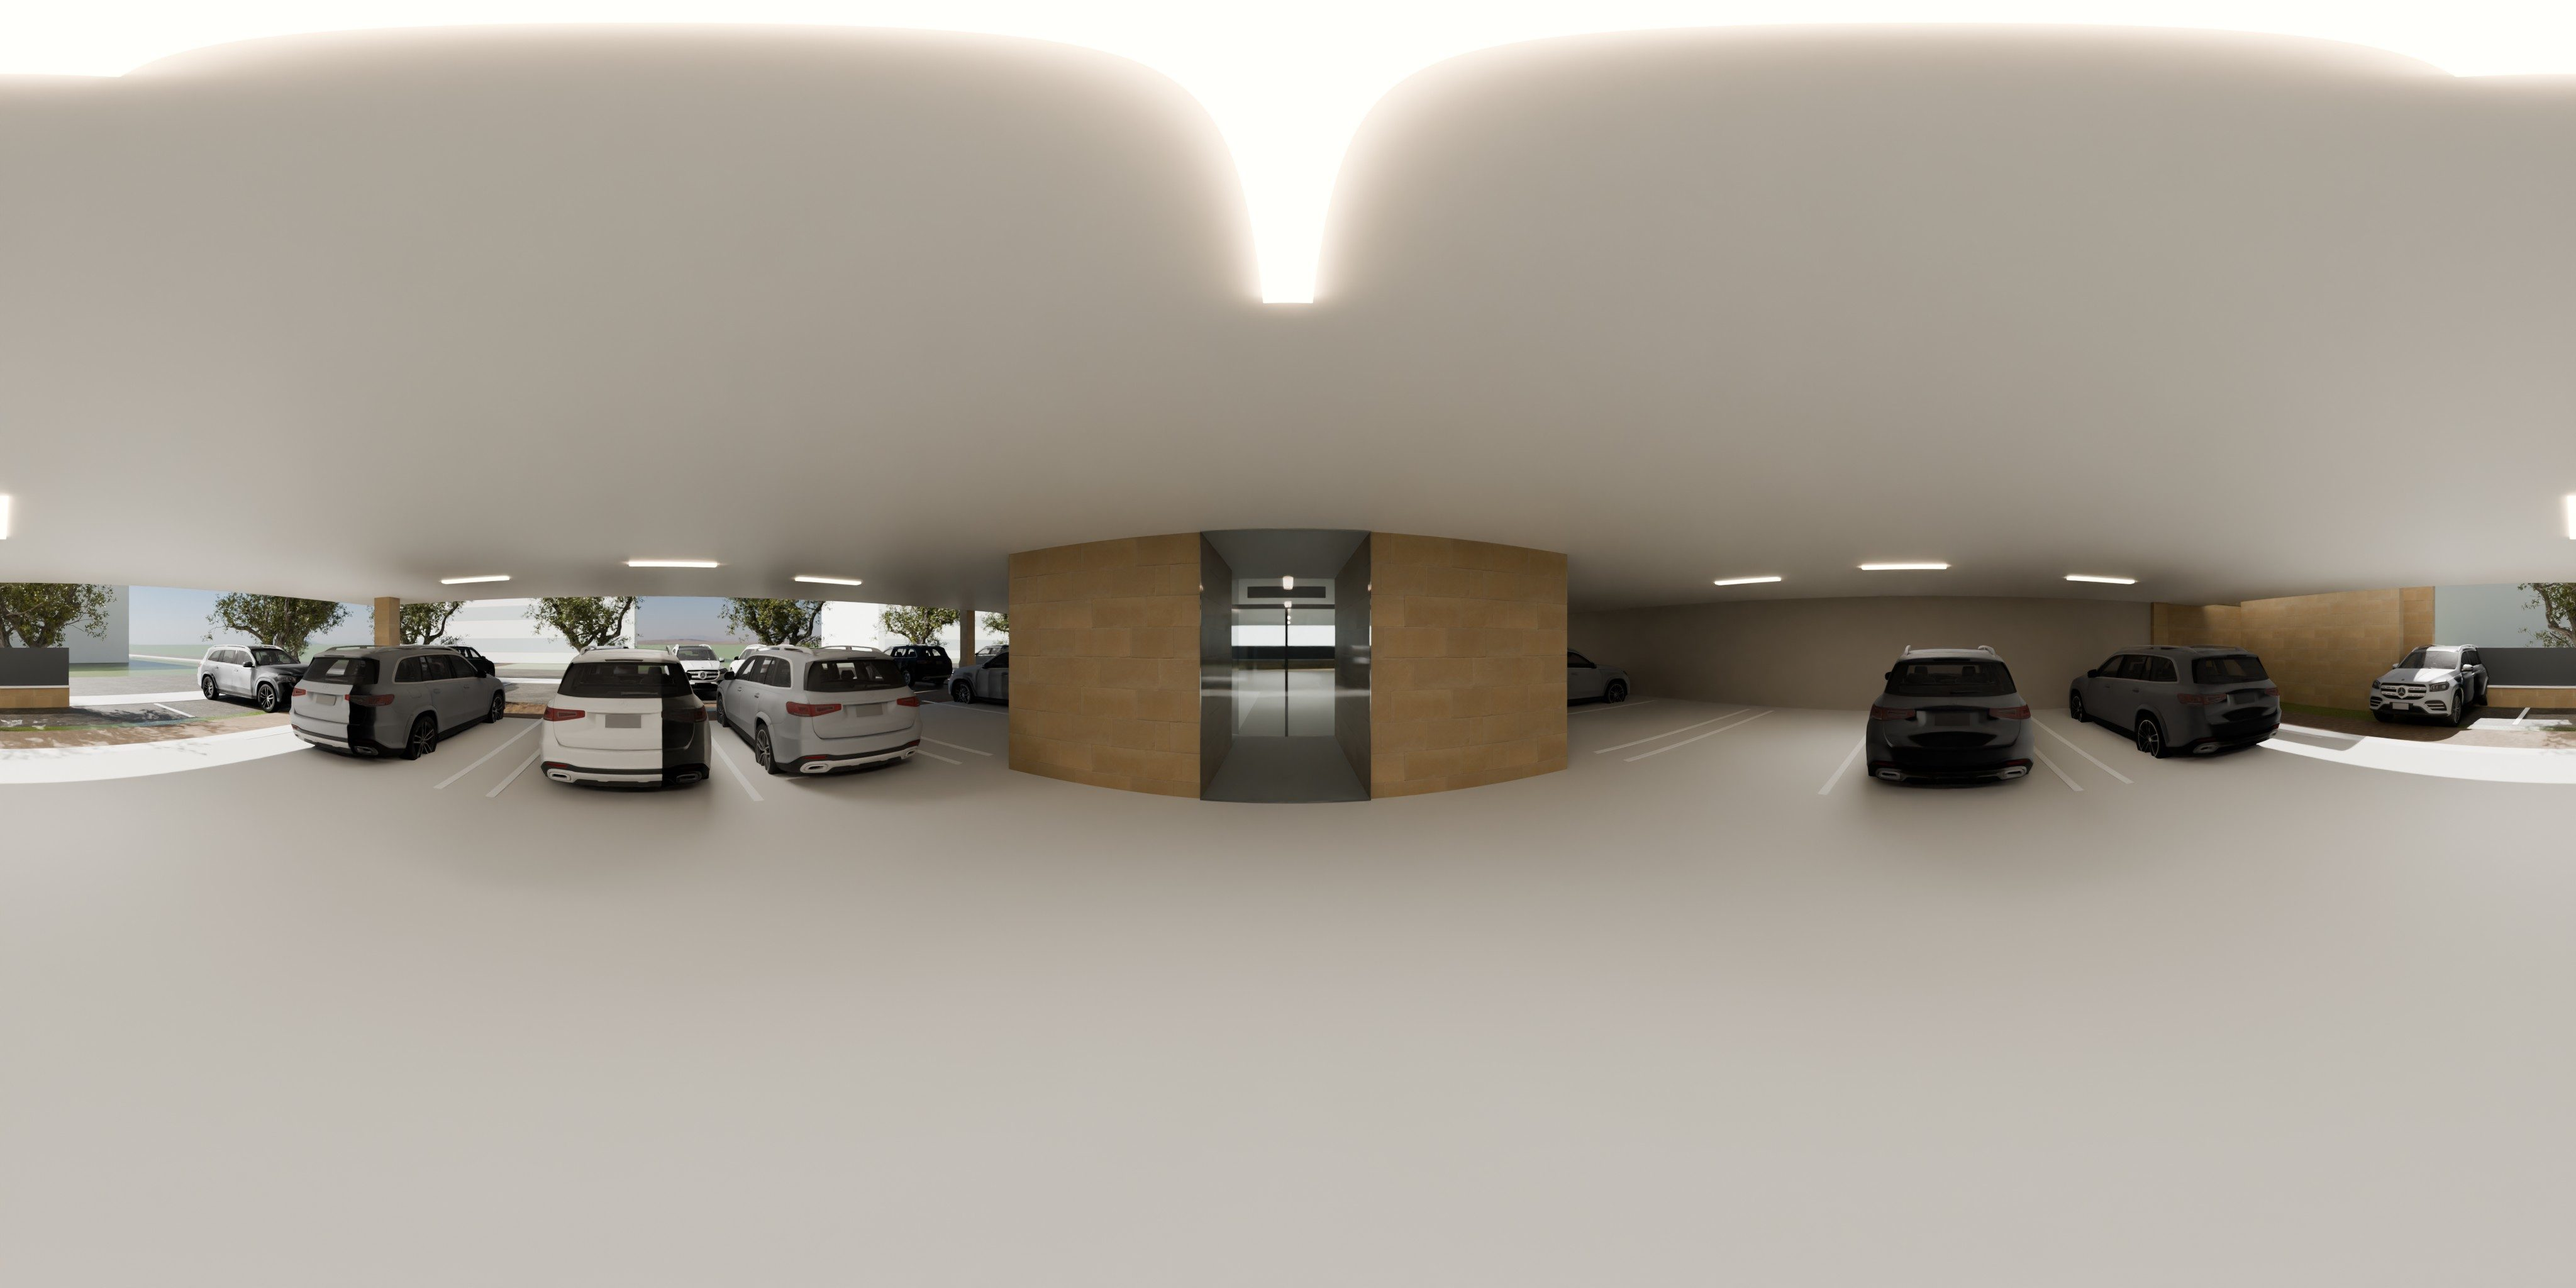
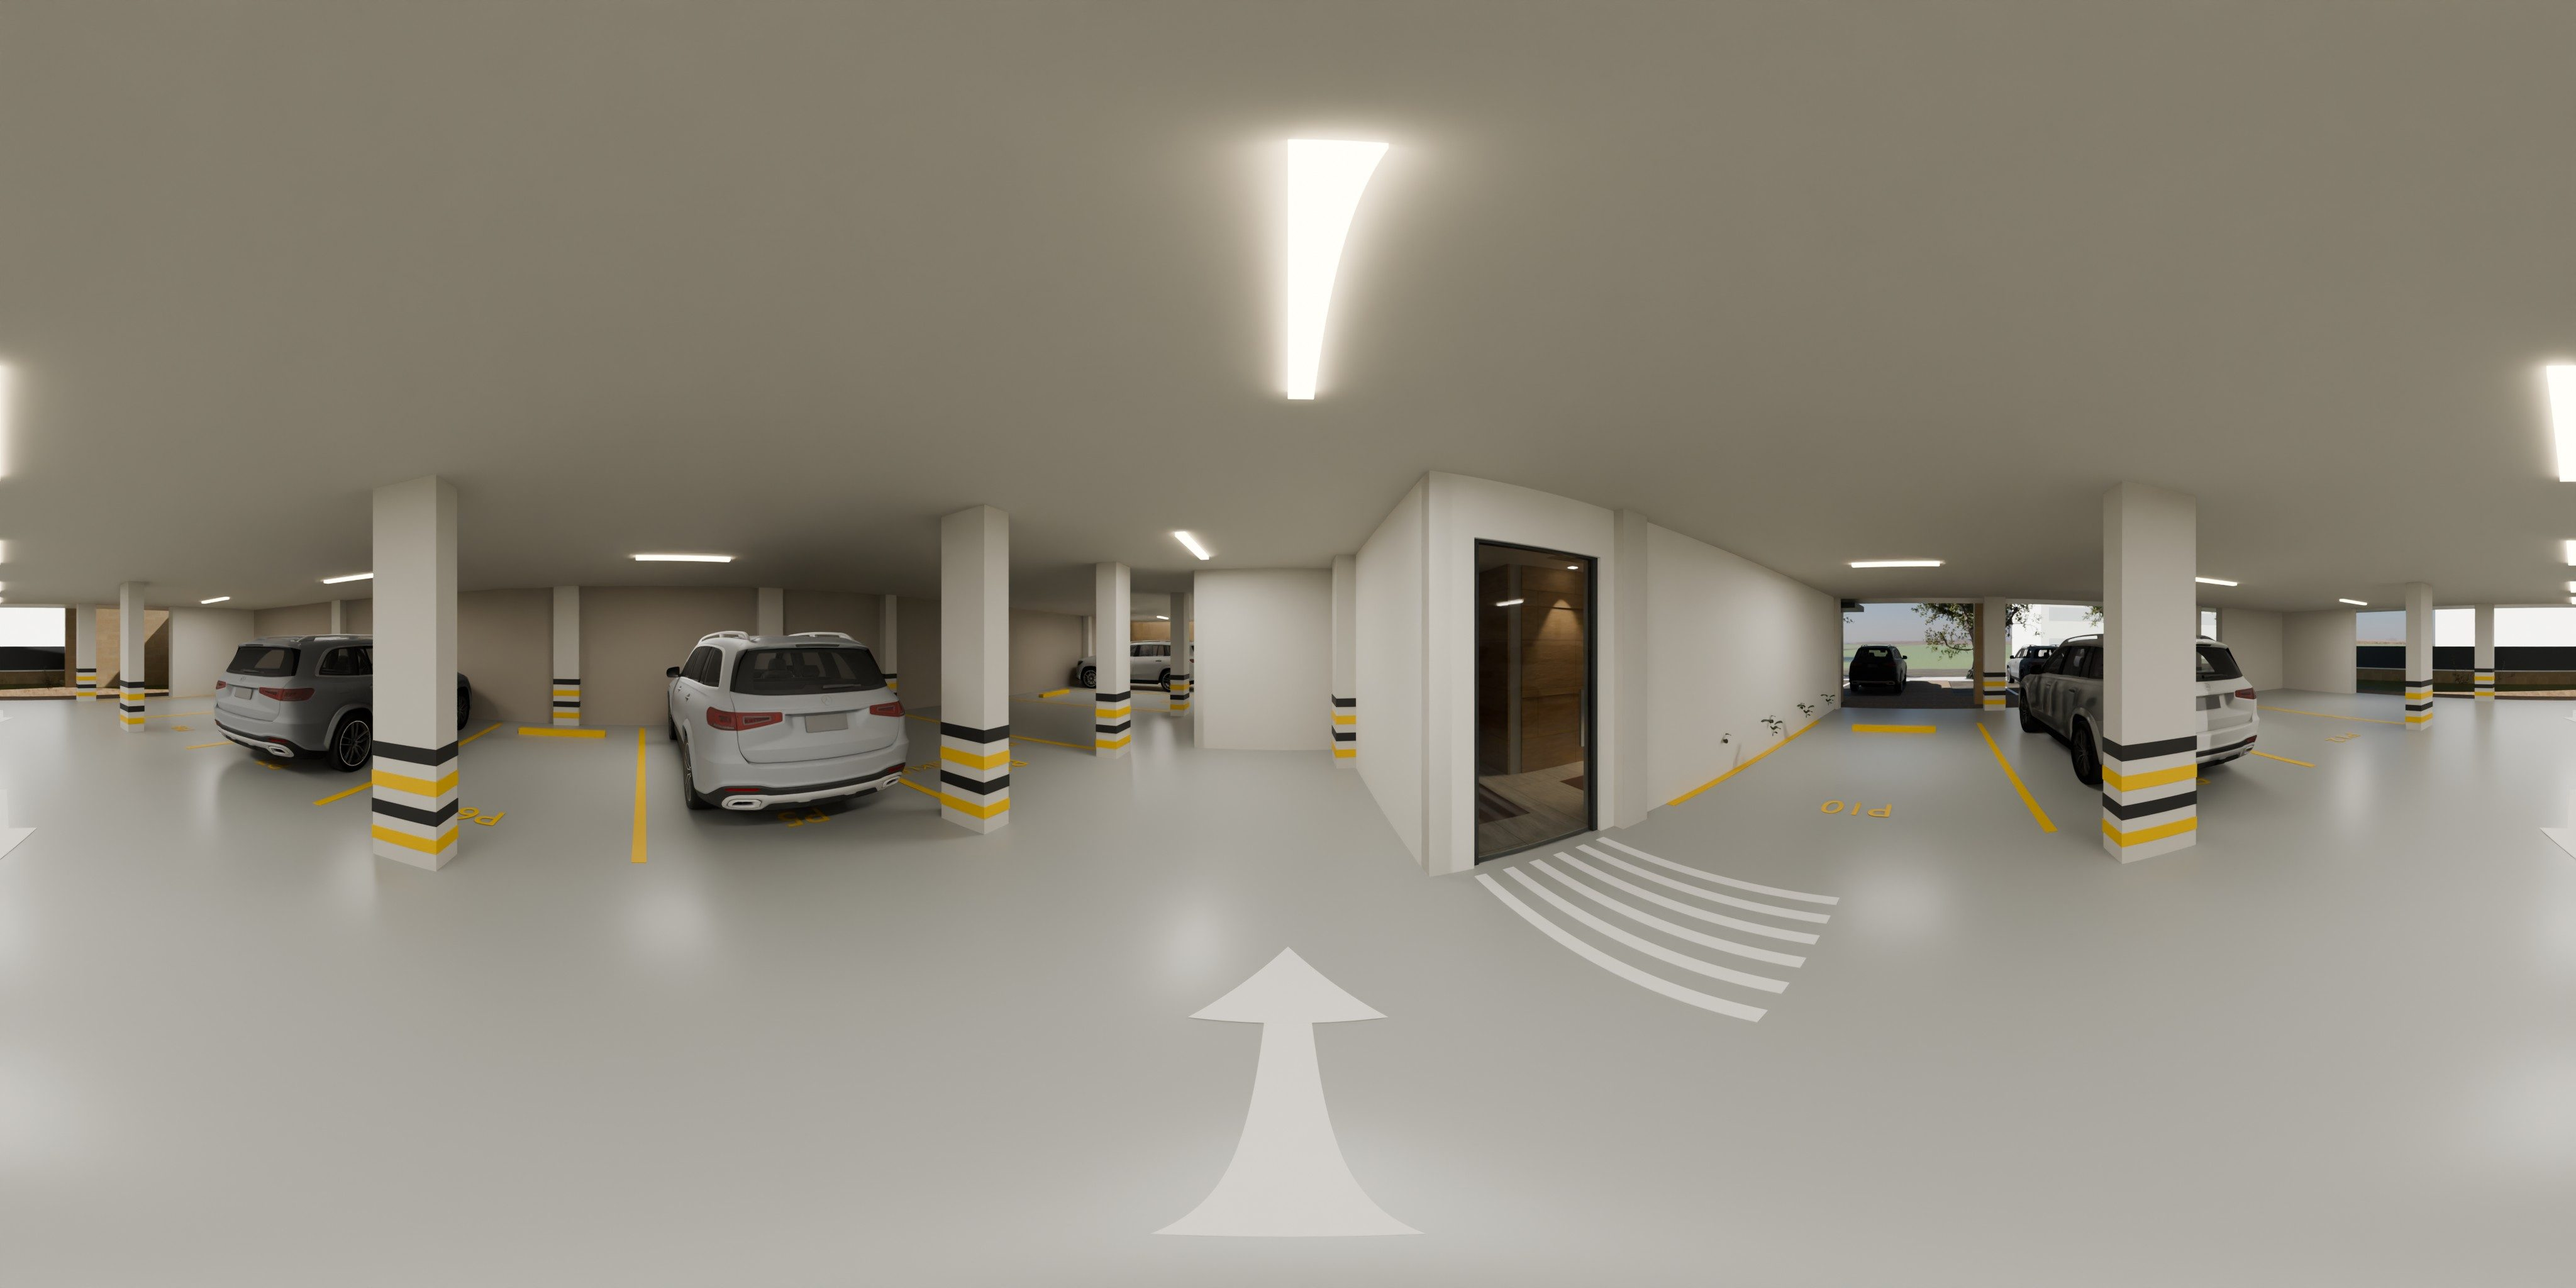
6 no 6. tur: merdiven inişi (traverten, her kat), bodrum planına göre otopark + sığınak + kolon ön tasarımı, bina girişi konsepti, asansörden otopark geçişi
Claude-Session: https://claude.ai/code/session_01NyococpTC3WyBaqAgkJsvA

diff --git a/satilik/tur/index.html b/satilik/tur/index.html
@@ -71,7 +71,7 @@ h1 { margin: 0; font-family: var(--font-baslik); font-stretch: 82%; font-weight:
 <script src="https://cdnjs.cloudflare.com/ajax/libs/three.js/r128/three.min.js"></script>
 <script>
 (function () {
-var D = [{"id": "01_salon", "ad": "Salon", "kat": "Daire", "x": -11.9, "y": -6.8, "z": 4.75, "yon": 175, "git": [1, 3, 7, 8], "bak": 60, "ok": {"04_hol": [-11.515, -4.08], "08_balkon": [-15.0, -5.449999999999999], "09_bahce": [-12.9, -9.7]}}, {"id": "02_yemek", "ad": "Yemek alanı", "kat": "Daire", "x": -14.1, "y": -8.549999999999999, "z": 4.75, "yon": 180, "git": [0, 7, 8], "ok": {"08_balkon": [-15.0, -5.449999999999999], "09_bahce": [-12.9, -9.7]}}, {"id": "03_mutfak", "ad": "Mutfak", "kat": "Daire", "x": -12.85, "y": -1.6999999999999993, "z": 4.75, "yon": 200, "git": [3, 7], "ok": {"04_hol": [-12.16, -2.96], "08_balkon": [-16.08, -3.55]}}, {"id": "04_hol", "ad": "Hol", "kat": "Daire", "x": -11.2, "y": -3.3, "z": 4.75, "yon": 90, "git": [0, 2, 4, 5, 6, 9], "ok": {"01_salon": [-11.515, -4.08], "03_mutfak": [-12.16, -2.96], "06_yatak2": [-8.91, -4.08], "07_banyo": [-9.75, -2.6499999999999995], "10_koridor": [-11.43, -1.3699999999999992], "05_ebeveyn": [-8.28, -3.2799999999999994]}}, {"id": "05_ebeveyn", "ad": "Ebeveyn yatak odası", "kat": "Daire", "x": -7.35, "y": -8.549999999999999, "z": 4.75, "yon": 70, "git": [3, 11], "ok": {"12_ebbanyo": [-6.49, -3.88], "04_hol": [-7.699999999999999, -4.05]}}, {"id": "06_yatak2", "ad": "Yatak odası", "kat": "Daire", "x": -9.65, "y": -5.25, "z": 4.75, "yon": 290, "git": [3], "ok": {"04_hol": [-8.91, -4.08]}}, {"id": "07_banyo", "ad": "Banyo", "kat": "Daire", "x": -9.4, "y": -2.0999999999999996, "z": 4.75, "yon": 20, "git": [3], "ok": {"04_hol": [-9.75, -2.6499999999999995]}}, {"id": "08_balkon", "ad": "Balkon", "kat": "Daire", "x": -15.95, "y": -5.449999999999999, "z": 4.75, "yon": 180, "git": [0, 1, 2], "ok": {"01_salon": [-15.0, -5.449999999999999], "02_yemek": [-15.0, -5.449999999999999], "03_mutfak": [-16.08, -3.55]}}, {"id": "09_bahce", "ad": "Özel bahçe", "kat": "Daire", "x": -12.15, "y": -13.25, "z": 4.6, "yon": 90, "git": [0, 1], "ok": {"01_salon": [-12.9, -9.7], "02_yemek": [-12.9, -9.7]}}, {"id": "10_koridor", "ad": "Kat holü · 6 no kapısı", "kat": "Apartman", "x": -11.4, "y": 0.0, "z": 4.75, "yon": 0, "git": [3, 10], "ok": {"04_hol": [-11.43, -1.3699999999999992]}}, {"id": "11_asansor", "ad": "Asansör ve merdiven", "kat": "Apartman", "x": -3.75, "y": 0.0, "z": 4.75, "yon": 270, "git": [9, 12]}, {"id": "12_ebbanyo", "ad": "Ebeveyn banyosu", "kat": "Daire", "x": -6.4, "y": -3.0999999999999996, "z": 4.75, "yon": 90, "git": [4], "ok": {"05_ebeveyn": [-6.49, -3.88]}}, {"id": "13_otopark", "ad": "Otopark", "kat": "Apartman", "x": -9.15, "y": 0.0, "z": 1.75, "yon": 0, "git": [10]}]; var GECE_VAR = false; var mod = "gunduz";
+var D = [{"id": "01_salon", "ad": "Salon", "kat": "Daire", "x": -11.9, "y": -6.8, "z": 4.75, "yon": 175, "git": [1, 3, 7, 8], "bak": 60, "ok": {"04_hol": [-11.515, -4.08], "08_balkon": [-15.0, -5.449999999999999], "09_bahce": [-12.9, -9.7]}}, {"id": "02_yemek", "ad": "Yemek alanı", "kat": "Daire", "x": -14.1, "y": -8.549999999999999, "z": 4.75, "yon": 180, "git": [0, 7, 8], "ok": {"08_balkon": [-15.0, -5.449999999999999], "09_bahce": [-12.9, -9.7]}}, {"id": "03_mutfak", "ad": "Mutfak", "kat": "Daire", "x": -12.85, "y": -1.6999999999999993, "z": 4.75, "yon": 200, "git": [3, 7], "ok": {"04_hol": [-12.16, -2.96], "08_balkon": [-16.08, -3.55]}}, {"id": "04_hol", "ad": "Hol", "kat": "Daire", "x": -11.2, "y": -3.3, "z": 4.75, "yon": 90, "git": [0, 2, 4, 5, 6, 9], "ok": {"01_salon": [-11.515, -4.08], "03_mutfak": [-12.16, -2.96], "06_yatak2": [-8.91, -4.08], "07_banyo": [-9.75, -2.6499999999999995], "10_koridor": [-11.43, -1.3699999999999992], "05_ebeveyn": [-8.28, -3.2799999999999994]}}, {"id": "05_ebeveyn", "ad": "Ebeveyn yatak odası", "kat": "Daire", "x": -7.35, "y": -8.549999999999999, "z": 4.75, "yon": 70, "git": [3, 11], "ok": {"12_ebbanyo": [-6.49, -3.88], "04_hol": [-7.699999999999999, -4.05]}}, {"id": "06_yatak2", "ad": "Yatak odası", "kat": "Daire", "x": -9.65, "y": -5.25, "z": 4.75, "yon": 290, "git": [3], "ok": {"04_hol": [-8.91, -4.08]}}, {"id": "07_banyo", "ad": "Banyo", "kat": "Daire", "x": -9.4, "y": -2.0999999999999996, "z": 4.75, "yon": 20, "git": [3], "ok": {"04_hol": [-9.75, -2.6499999999999995]}}, {"id": "08_balkon", "ad": "Balkon", "kat": "Daire", "x": -15.95, "y": -5.449999999999999, "z": 4.75, "yon": 180, "git": [0, 1, 2], "ok": {"01_salon": [-15.0, -5.449999999999999], "02_yemek": [-15.0, -5.449999999999999], "03_mutfak": [-16.08, -3.55]}}, {"id": "09_bahce", "ad": "Özel bahçe", "kat": "Daire", "x": -12.15, "y": -13.25, "z": 4.6, "yon": 90, "git": [0, 1], "ok": {"01_salon": [-12.9, -9.7], "02_yemek": [-12.9, -9.7]}}, {"id": "10_koridor", "ad": "Kat holü · 6 no kapısı", "kat": "Apartman", "x": -11.4, "y": 0.0, "z": 4.75, "yon": 0, "git": [3, 10], "ok": {"04_hol": [-11.43, -1.3699999999999992]}}, {"id": "11_asansor", "ad": "Asansör ve merdiven", "kat": "Apartman", "x": -3.75, "y": 0.0, "z": 4.75, "yon": 270, "git": [9, 12, 13], "ok": {"13_otopark": [-4.0, 0.7699999999999996], "14_giris": [-3.0, -1.8499999999999996]}}, {"id": "12_ebbanyo", "ad": "Ebeveyn banyosu", "kat": "Daire", "x": -6.4, "y": -3.0999999999999996, "z": 4.75, "yon": 90, "git": [4], "ok": {"05_ebeveyn": [-6.49, -3.88]}}, {"id": "13_otopark", "ad": "Otopark", "kat": "Apartman", "x": 3.75, "y": -1.6500000000000004, "z": 1.75, "yon": 180, "git": [10, 13], "ok": {"14_giris": [1.3200000000000003, 0.05000000000000071], "11_asansor": [-4.0, 0.8300000000000001]}}, {"id": "14_giris", "ad": "Bina girişi", "kat": "Apartman", "x": 0.4299999999999997, "y": 2.75, "z": 1.75, "yon": 270, "git": [12, 10], "ok": {"13_otopark": [1.3200000000000003, 0.05000000000000071], "11_asansor": [-4.0, 0.8100000000000005]}}]; var GECE_VAR = false; var mod = "gunduz";
 var kutu = document.getElementById("sahne");
 var renderer = new THREE.WebGLRenderer({ antialias: true });
 renderer.setPixelRatio(Math.min(window.devicePixelRatio || 1, 2));
